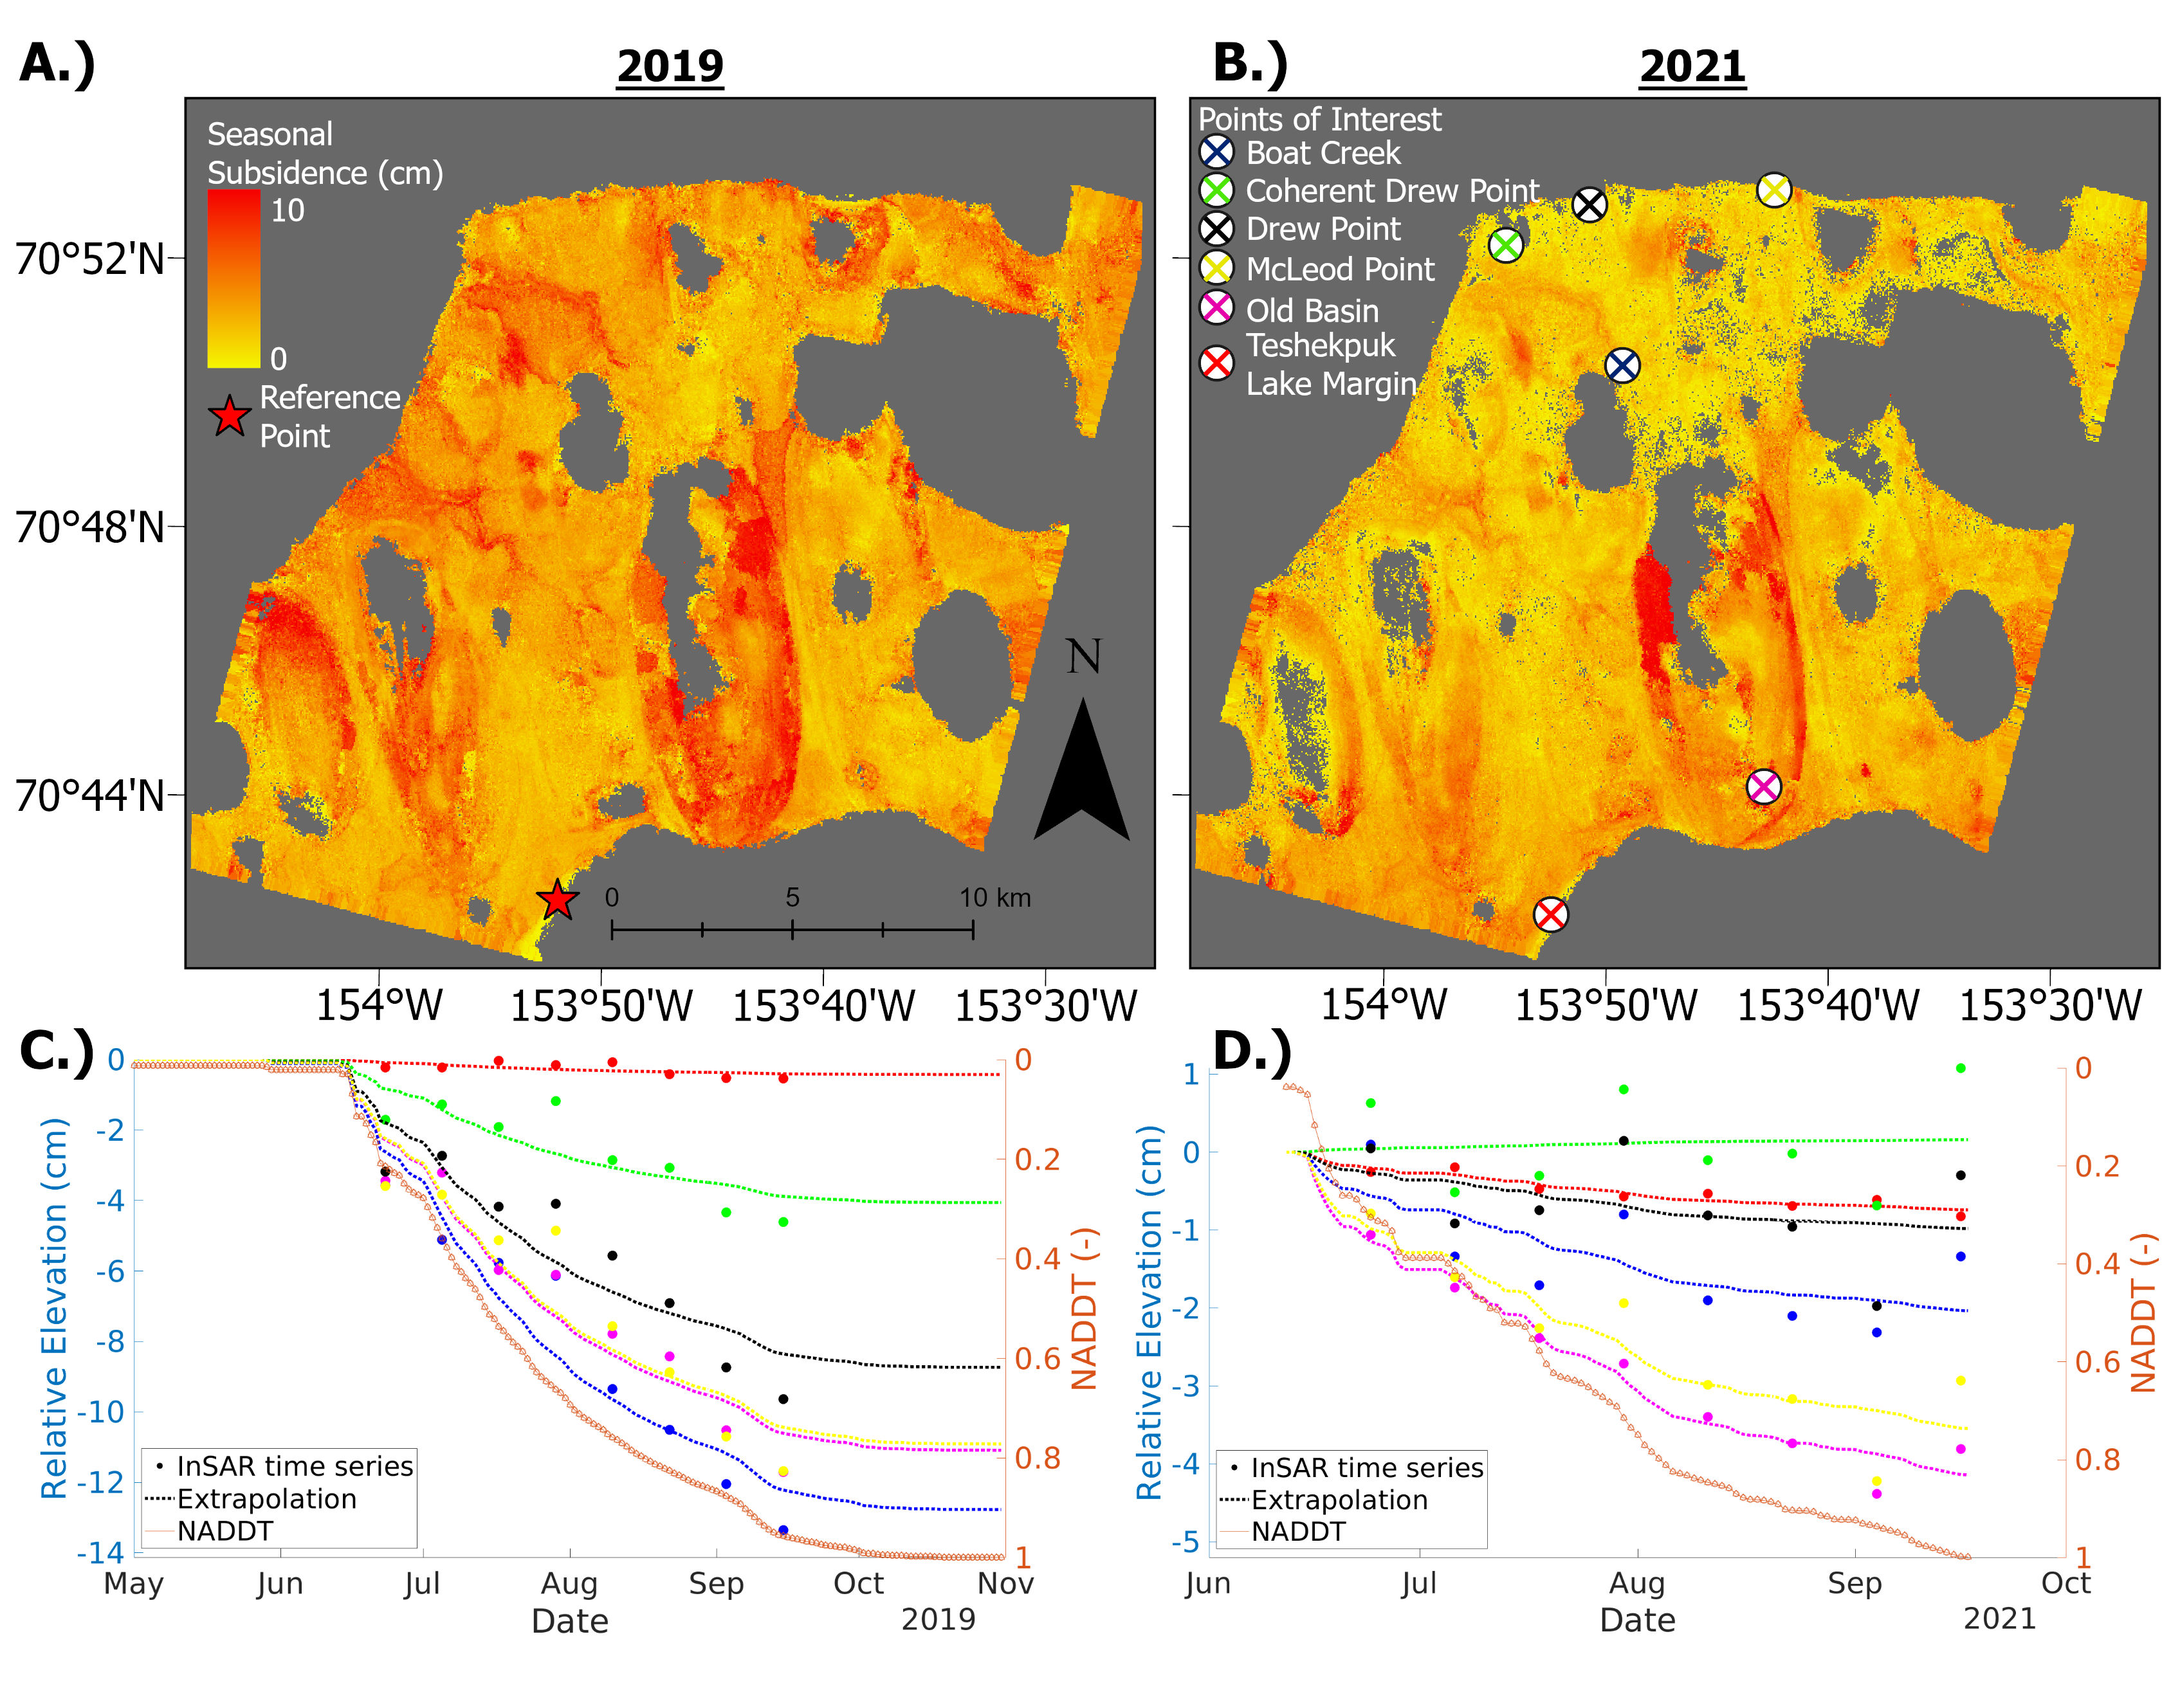
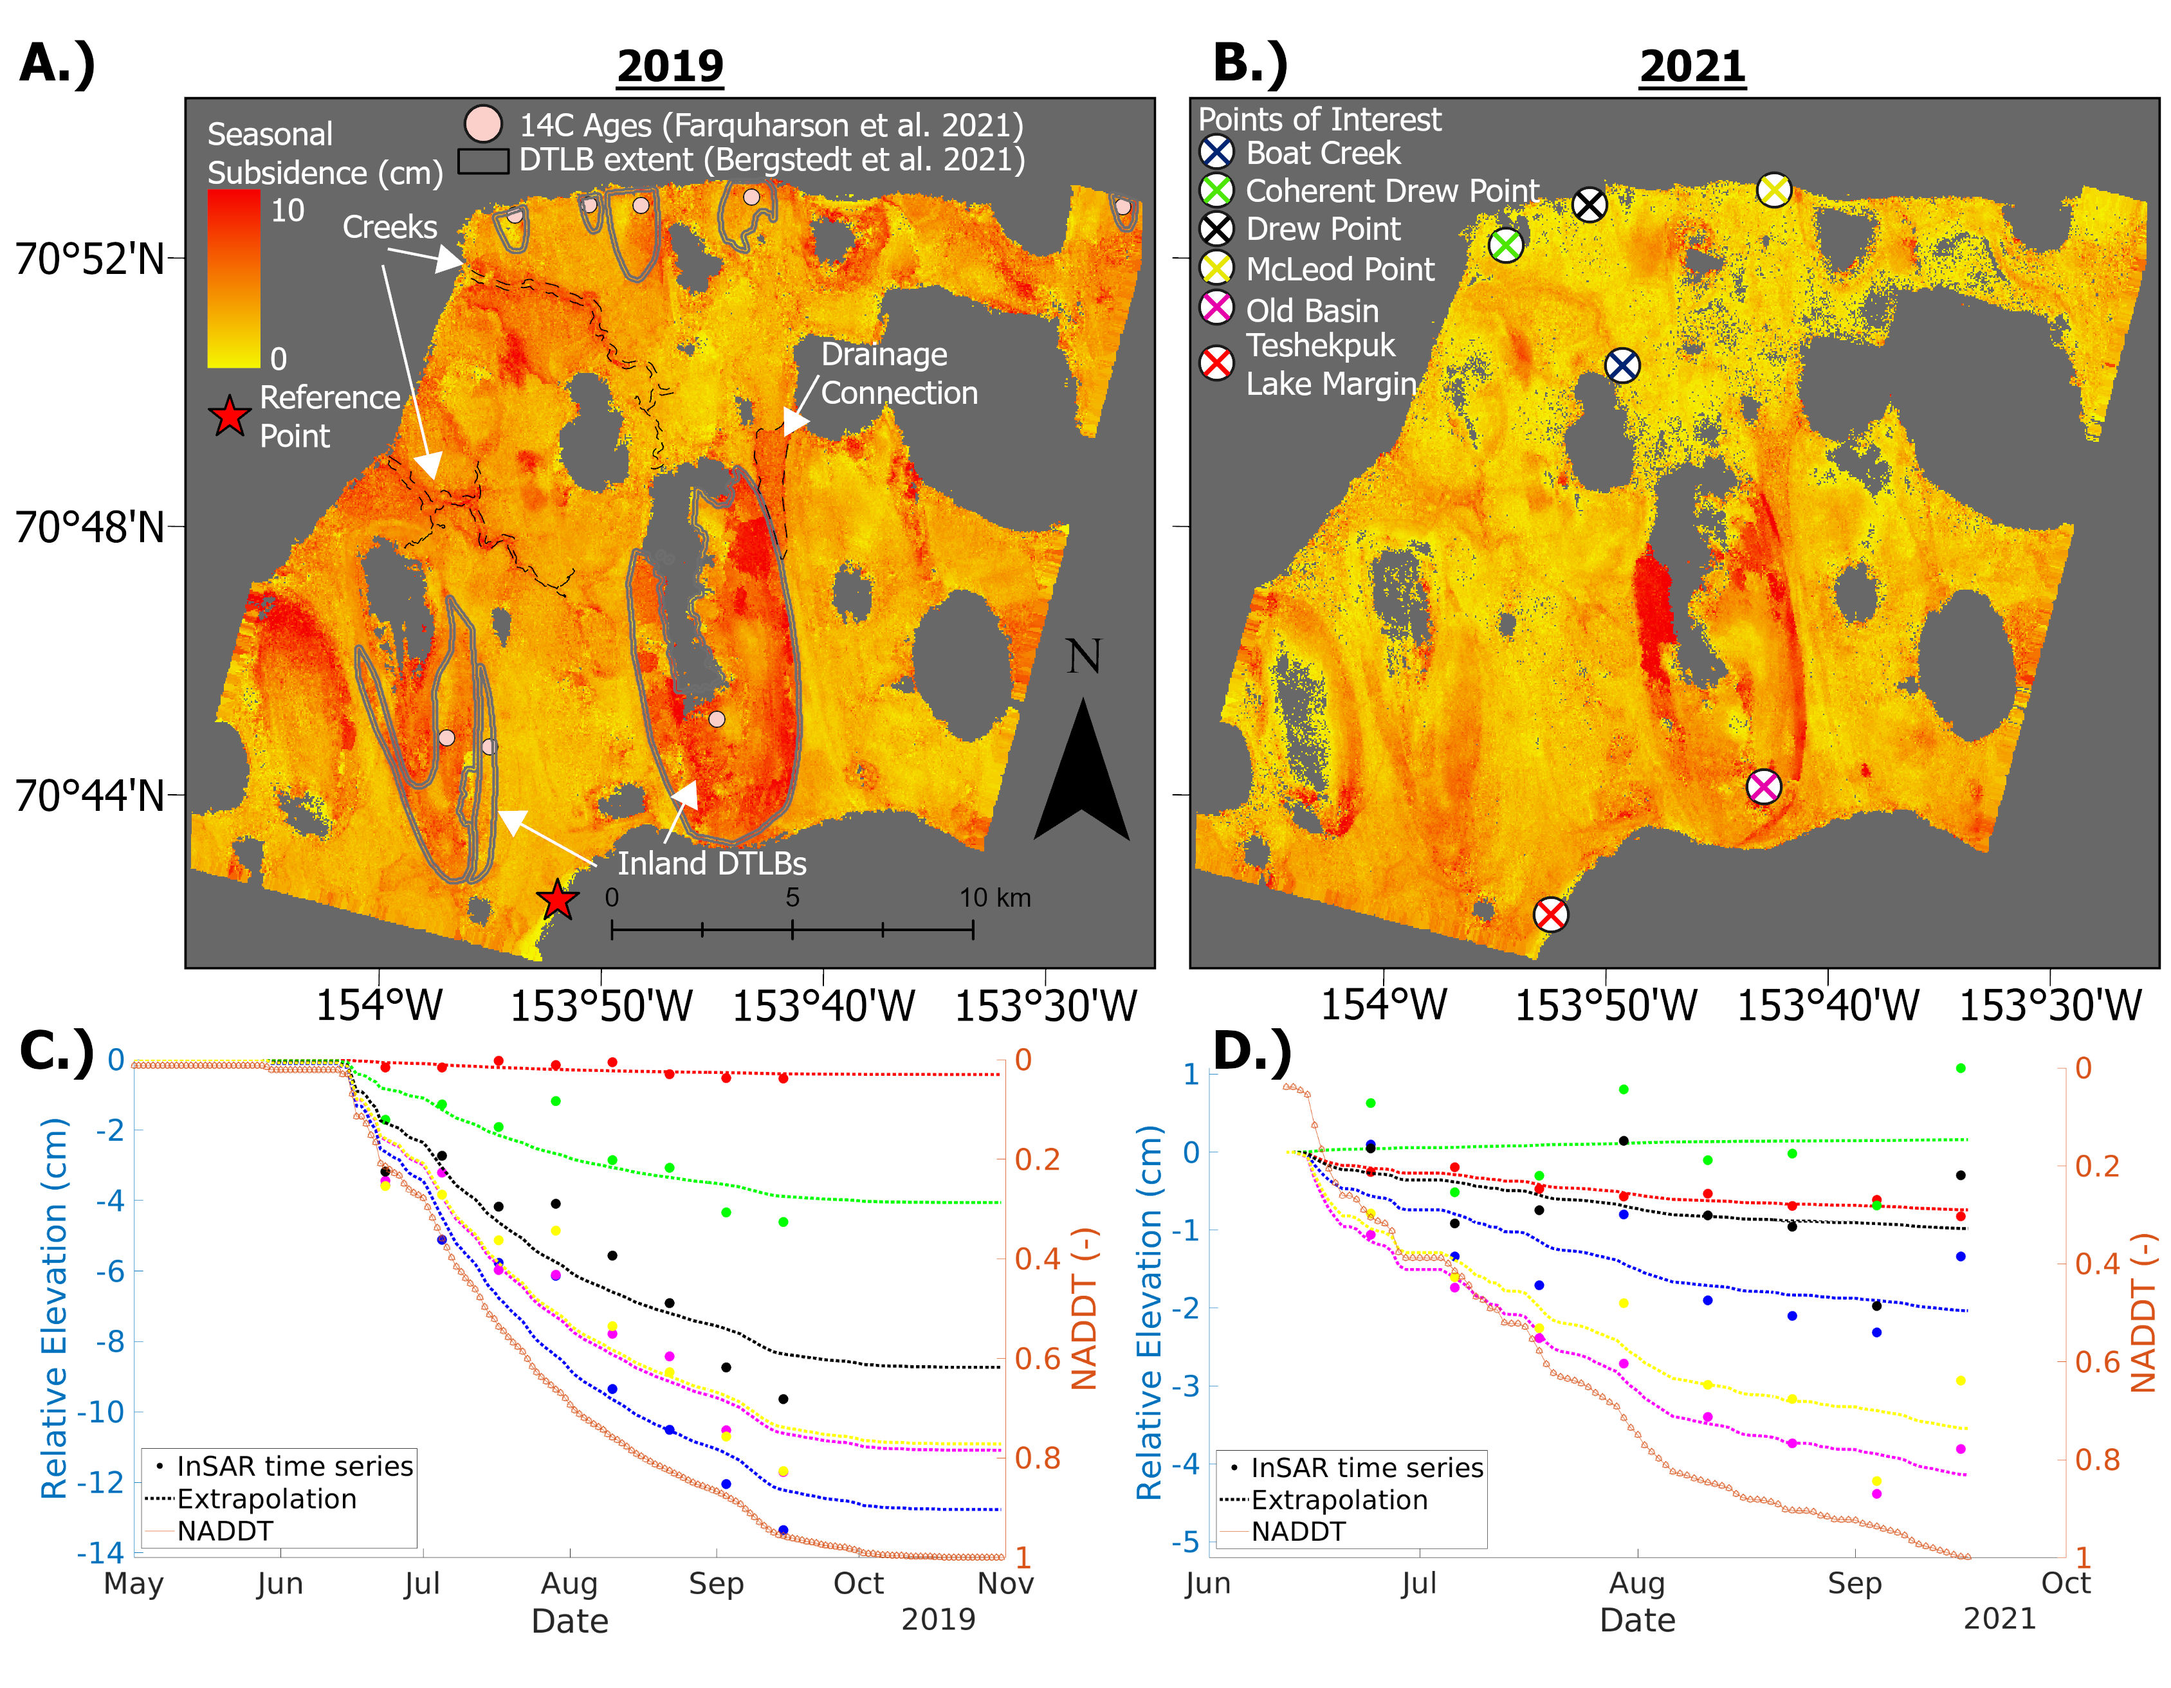
Figure updates
Editing E_ts and adding some supplemental figs.

diff --git a/main_processing/summary_results/YearlyComparisonFigs.m b/main_processing/summary_results/YearlyComparisonFigs.m
@@ -156,3 +156,136 @@ title('')
 ax = gca;
 ax.FontSize = 15;
 set(ax,'Box', 'off')
+%% age-subsidence plots
+summary_age = readtable("results_stats.xlsx","Sheet","TL_Age");
+
+age = summary_age.Age_uncal;
+sub2019 = summary_age.Med_Subsidence_2019_cm;
+sub2021 = summary_age.Med_Subsidence_2021_cm;
+sub2019_uncert = summary_age.Mean_E_Uncert_2019;
+sub2021_uncert = summary_age.Mean_E_Uncert_2021;
+
+coastal_age = age([1:2,4:5,7],:);
+coastal_sub2019 = sub2019([1:2,4:5,7],:);
+coastal_sub2021 = sub2021([1:2,4:5,7],:);
+
+coastal_sub2019uncert = sub2019_uncert([1:2,4:5,7],:);
+coastal_sub2021uncert = sub2021_uncert([1:2,4:5,7],:);
+coastal_names = summary_age.Sample_basin_ID([1:2,4:5,7],:);
+
+inland_age = age([3,6,8],:);
+inland_sub2019 = sub2019([3,6,8],:);
+inland_sub2021 = sub2021([3,6,8],:);
+inland_sub2019uncert = sub2019_uncert([3,6,8],:);
+inland_sub2021uncert = sub2021_uncert([3,6,8],:);
+inland_names = summary_age.Sample_basin_ID([3,6,8],:);
+
+fitlincoastal2019 = fitlm(coastal_age,coastal_sub2019,'linear');
+fitlininland2019 = fitlm(inland_age,inland_sub2019,"linear");
+fitlincoastal2021 = fitlm(coastal_age,coastal_sub2021,'linear');
+fitlininland2021 = fitlm(inland_age,inland_sub2021,"linear");
+
+figure
+f3 = figure;
+tiledlayout(2,2)
+nexttile
+yline(6.7,'-k','14C DTLB Average = 6.7','Color','k','FontSize',15)
+hold on
+yline(5.3,'-r','Study Area-Wide Average = 5.3','Color','r','FontSize',15)
+pi9 = plot(fitlininland2019);
+% for i = 1:3
+%     text(inland_age(i)+10, inland_sub2019(i)+.25, inland_names(i), 'FontSize',15)
+% end
+pi9(1).MarkerSize = 12;
+pi9(1).Marker = 'o';
+pi9(1).MarkerFaceColor = 'b';
+errorbar(inland_age,inland_sub2019,inland_sub2019uncert,'LineStyle','none','Color','k')
+xlabel('Drainage Age', 'FontSize', 15);
+ylabel('Seasonal Subsidence (cm)')
+xlim([0, 2500])
+ylim([0, 12])
+legend(["14C DTLB Average", "Study Area-Wide Average", "Data", "Linear Fit", "95% conf.bounds"],'Location','southwest')
+text(10,10.5,['y = ',num2str(fitlininland2019.Coefficients.Estimate(2)),'x +',num2str(fitlininland2019.Coefficients.Estimate(1))],'FontSize',15)
+text(10,9.8,['$R^{2} =$',num2str(round(fitlininland2019.Rsquared.Ordinary,2))],'Interpreter','latex','fontsize',15)
+text(10, 11.5, 'A.)','FontSize',15,'FontWeight','bold')
+title('')
+ax = gca;
+ax.FontSize = 15;
+set(ax,'Box', 'off')
+
+nexttile
+yline(5.7,'-k','14C DTLB Average = 5.7','Color','k','FontSize',15)
+hold on
+yline(5.3,'-r')
+pc9 = plot(fitlincoastal2019);
+% for i = 1:5
+%     text(coastal_age(i)+10, coastal_sub2019(i)+.25, coastal_names(i), 'FontSize',15)
+% end
+pc9(1).MarkerSize = 12;
+pc9(1).Marker = 'o';
+pc9(1).MarkerFaceColor = 'b';
+errorbar(coastal_age,coastal_sub2019,coastal_sub2019uncert,'LineStyle','none','Color','k')
+xlabel('Drainage Age', 'FontSize', 15);
+ylabel('Seasonal Subsidence (cm)')
+xlim([0, 2500])
+ylim([0, 12])
+legend(["14C DTLB Average", "Study Area-Wide Average", "Data", "Linear Fit", "95% conf.bounds"],'Location','southeast')
+text(10,10.5,['y = ',num2str(fitlincoastal2019.Coefficients.Estimate(2)),'x +',num2str(fitlincoastal2019.Coefficients.Estimate(1))],'FontSize',15)
+text(10,9.8,['$R^{2} =$',num2str(round(fitlincoastal2019.Rsquared.Ordinary,2))],'Interpreter','latex','fontsize',15)
+text(10, 11.5, 'B.)','FontSize',15,'FontWeight','bold')
+title('')
+ax = gca;
+ax.FontSize = 15;
+set(ax,'Box', 'off')
+
+%2021
+nexttile
+yline(2.7,'-k','14C DTLB Average = 2.7','Color','k','FontSize',15)
+hold on
+yline(1.8,'-r','Study Area-Wide Average = 1.8','Color','r','FontSize',15)
+pi1 = plot(fitlininland2021);
+% for i = 1:3
+%     text(inland_age(i)+10, inland_sub2021(i)+.25, inland_names(i), 'FontSize',15)
+% end
+pi1(1).MarkerSize = 12;
+pi1(1).Marker = 'o';
+pi1(1).MarkerFaceColor = 'b';
+errorbar(inland_age,inland_sub2021,inland_sub2021uncert,'LineStyle','none','Color','k')
+xlabel('Drainage Age', 'FontSize', 15);
+ylabel('Seasonal Subsidence (cm)')
+xlim([0, 2500])
+ylim([0, 5])
+legend(["14C DTLB Average", "Study Area-Wide Average", "Data", "Linear Fit", "95% conf.bounds"],'Location','southwest')
+text(10,3.8,['y = ',num2str(fitlininland2021.Coefficients.Estimate(2)),'x +',num2str(fitlininland2021.Coefficients.Estimate(1))],'FontSize',15)
+text(10,3.5,['$R^{2} =$',num2str(round(fitlininland2021.Rsquared.Ordinary,2))],'Interpreter','latex','fontsize',15)
+text(10, 4.5, 'C.)','FontSize',15,'FontWeight','bold')
+title('')
+ax = gca;
+ax.FontSize = 15;
+set(ax,'Box', 'off')
+
+nexttile
+yline(1,'-k','14C DTLB Average = 1','Color','k','FontSize',15)
+hold on
+yline(1.8,'-r')
+pc1 = plot(fitlincoastal2021);
+% for i = 1:5
+%     text(coastal_age(i)+10, coastal_sub2021(i)+.25, coastal_names(i), 'FontSize',15)
+% end
+pc1(1).MarkerSize = 12;
+pc1(1).Marker = 'o';
+pc1(1).MarkerFaceColor = 'b';
+errorbar(coastal_age,coastal_sub2021,coastal_sub2021uncert,'LineStyle','none','Color','k')
+xlabel('Drainage Age', 'FontSize', 15);
+ylabel('Seasonal Subsidence (cm)')
+xlim([0, 2500])
+ylim([0, 5])
+legend(["14C DTLB Average", "Study Area-Wide Average", "Data", "Linear Fit", "95% conf.bounds"],'Location','northeast')
+text(10,3.8,['y = ',num2str(fitlincoastal2021.Coefficients.Estimate(2)),'x +',num2str(fitlincoastal2021.Coefficients.Estimate(1))],'FontSize',15)
+text(10,3.5,['$R^{2} =$',num2str(round(fitlincoastal2021.Rsquared.Ordinary,2))],'Interpreter','latex','fontsize',15)
+text(10, 4.5, 'D.)','FontSize',15,'FontWeight','bold')
+title('')
+ax = gca;
+ax.FontSize = 15;
+set(ax,'Box', 'off')
+
